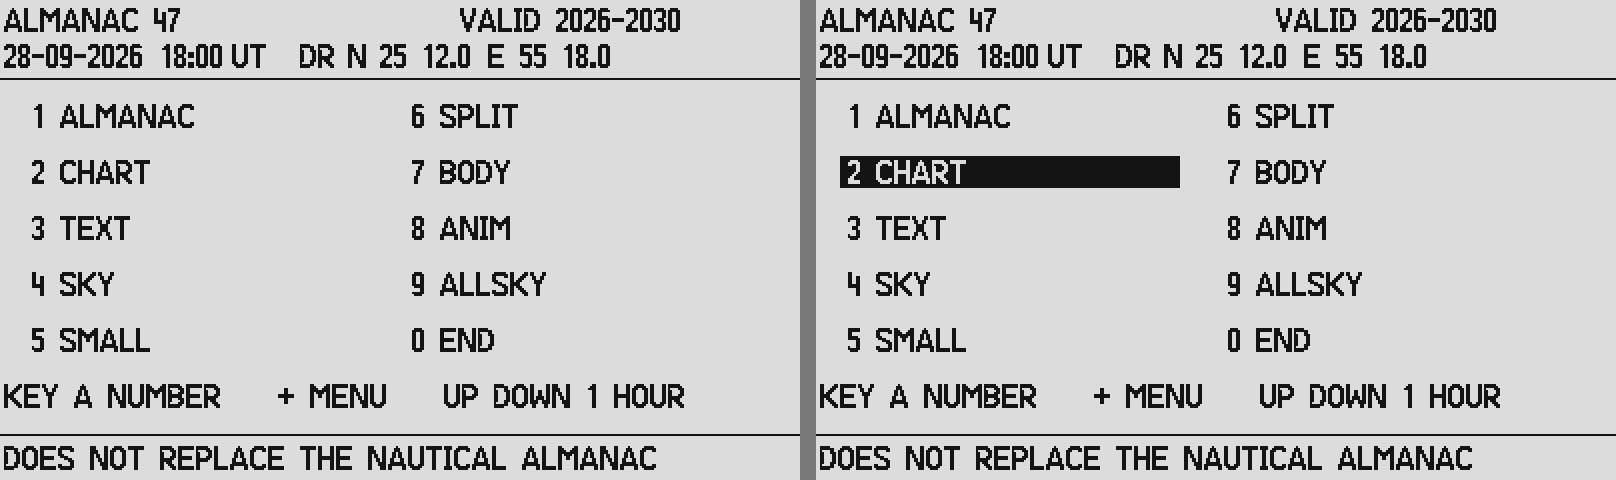
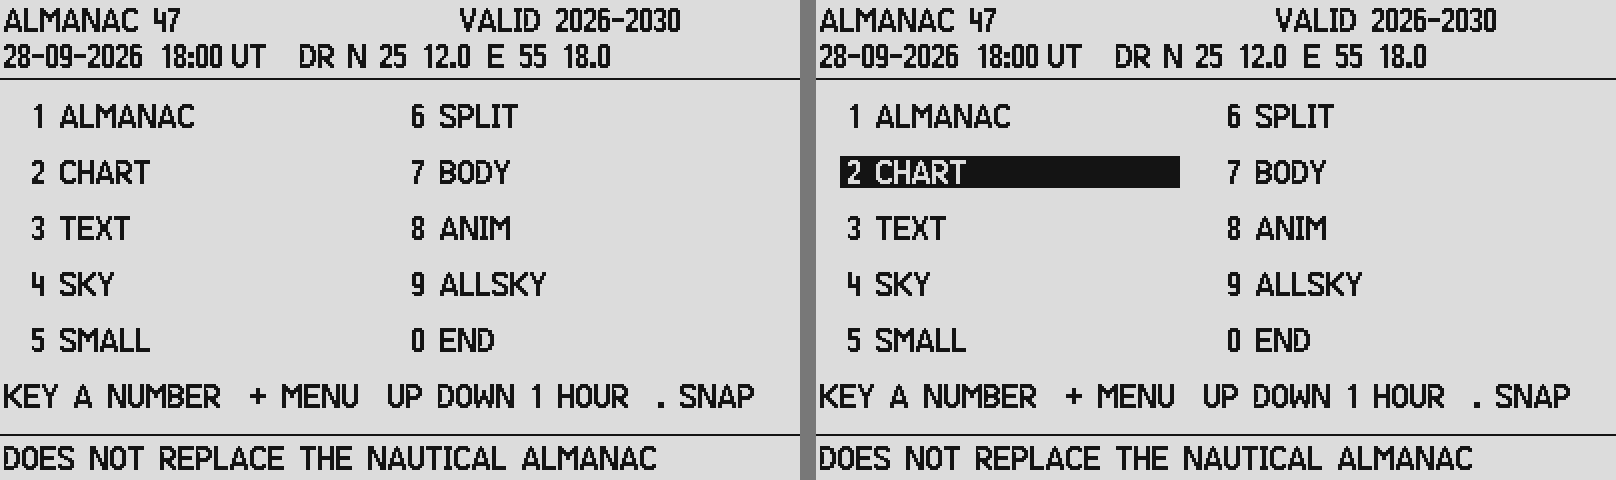
NAV: . key takes a screenshot (SNAP) of the menu or the view
Claude-Session: https://claude.ai/code/session_01677MyYEjVMcLMWfCdQA5yQ

Changed region(s): [[0.6498, 0.7812, 0.9901, 0.875], [0.1547, 0.7812, 0.4641, 0.875]]

diff --git a/tools/generators/gennav.py b/tools/generators/gennav.py
@@ -26,8 +26,9 @@ TOP, PITCH, XL, XR = 176, 28, 16, 206
 BOX_W, BOX_H = 170, 16
 TITLE = 'ALMANAC 47'
 UP, DOWN = 51, 61                      # arrow keycodes
+DOT = 83                               # . key: SNAP (screenshot of what is shown)
 ANTS = 6                               # ants shown after an arrow, 0.1 s apart
-HINT = 'KEY A NUMBER    + MENU    UP DOWN 1 HOUR'
+HINT = 'KEY A NUMBER  + MENU  UP DOWN 1 HOUR  . SNAP'
 WARNING = 'DOES NOT REPLACE THE NAUTICAL ALMANAC'
 
 
@@ -87,6 +88,7 @@ def program(inp, items=ALL, autoinit=False):
     a('LBL 02', 'KEY? 39', 'GTO 02',
       'RCL 39', 82, 'X=Y?', 'GTO 09',
       'RCL 39', UP, 'X=Y?', 'GTO 22', 'RCL 39', DOWN, 'X=Y?', 'GTO 23',        # arrows: the menu one hour later / earlier
+      'RCL 39', DOT, 'X=Y?', 'GTO 27',                                         # . : screenshot of the menu
       'RCL 39', 10, '÷', 'IP', 'STO 38', 5, 'X>Y?', 'GTO 26', 'RCL 38', 7, 'X<Y?', 'GTO 26',     # row 5-7
       'RCL 39', 10, 'MOD', 'STO 37', 2, 'X>Y?', 'GTO 26', 'RCL 37', 4, 'X<Y?', 'GTO 26',        # column 2-4
       7, 'RCL- 38', 3, '×', 'RCL+ 37', 1, '-', 'STO 38')                                   # the digit
@@ -97,7 +99,8 @@ def program(inp, items=ALL, autoinit=False):
     for d in items:
         a(d, 'RCL "VW"', 'X=Y?', 'GTO %d' % (9 + d))
     a('GTO 01', 'LBL 09', 'CLLCD', 'RTN',
-      'LBL 22', 1, 'STO+ "DH"', 'XEQ 48', 'GTO 01', 'LBL 23', 1, 'STO- "DH"', 'XEQ 48', 'GTO 01')
+      'LBL 22', 1, 'STO+ "DH"', 'XEQ 48', 'GTO 01', 'LBL 23', 1, 'STO- "DH"', 'XEQ 48', 'GTO 01',
+      'LBL 27', 'SNAP', 'XEQ 48', 'GTO 01')
     for d in items:
         if d == 3:                          # TEXT: the page into the registers, NAV ends in REGS
             a('LBL 12', *text_steps(24)); a('REGS', 'RTN')
@@ -111,6 +114,7 @@ def program(inp, items=ALL, autoinit=False):
     # after a view (it returns on any key, R39): + the menu, up arrow one hour later, down arrow one
     # hour earlier, any other key the same view again (its release would leave the stack on the screen)
     a('LBL 05', 'RCL 39', UP, 'X=Y?', 'GTO 06', 'RCL 39', DOWN, 'X=Y?', 'GTO 07',
+      'RCL 39', DOT, 'X=Y?', 'SNAP',                           # . : screenshot (taken before the key is released), then drawn again
       'RCL 39', 'X=0?', 'GTO 25', 85, 'X≠Y?', 'GTO 08', 'LBL 25', 'XEQ 48', 'GTO 01',
       'LBL 06', 1, 'STO+ "DH"', 'GTO 08', 'LBL 07', 1, 'STO- "DH"',
       # while the key is released (its release would bring the stack back over a new drawing):

diff --git a/tests/test_navfull.py b/tests/test_navfull.py
@@ -179,3 +179,9 @@ c.run('NAV',maxsteps=10**8)
 ref=Engine('programs'); b,_=ref.screen('ALMF',jd(2026,9,26,14+57/60),25+20/60,55+12/60)
 n=sum(1 for f in c.frames if {(x,239-y) for y,x in f if 0<=x<400 and 0<=y<240}==b[0])
 print('NAV other key on ALMF: drawn', n, 'times (2 expected)')
+# . key: SNAP on the menu and on a view, then drawn again
+c=load(['build/NAVINIT.txt','build/dev/NAVFULL.txt'],False)
+c.reg['DATE']=D('2026.0926'); c.reg['UTC']=D('14.57'); c.reg['LAT']=D('25.20'); c.reg['LON']=D('55.12')
+c.s=[D(0)]*4; c.keys=[83,KEYCODE[1],83,85,KEYCODE[0]]; c.frames=[]; c.pix=[]
+c.run('NAV',maxsteps=10**8)
+print('NAV . key: screenshots', getattr(c,'snaps',0), '(2 expected)')

diff --git a/python/c47sim.py b/python/c47sim.py
@@ -190,6 +190,7 @@ class Calc:
             if op == 'αSL': self.rset(arg, self.rget(arg)[int(self.s[0]):]); continue
             if op == 'REM': continue
             if op == 'WSIZE': self.ws=int(arg); continue
+            if op == 'SNAP': self.snaps=getattr(self,'snaps',0)+1; continue
             if op == 'REGS': self.regs_opened=True; continue
             if op == 'RAN#':
                 import random as _r; self.push(D(repr(_r.Random(getattr(self,'seed',0)).random()))); self.seed=getattr(self,'seed',0)+1; continue

diff --git a/DEVELOPMENT_NOTES.md b/DEVELOPMENT_NOTES.md
@@ -275,3 +275,6 @@ INIT with the builders as LBL 01-04.
   key is released; KT2 (PAUSE only, key pressed during the pause) - the band stays. So the redraw
   comes with a key caught by KEY? (on its release), not with every key. Hence NAV: after KEY?
   a pause (with the ants) for the release, then draw again.
+- g + EXIT (screenshot) does not work while NAV runs: KEY? takes the keys, EXIT stops the program.
+  Now the . key (83) runs SNAP (SCREENS/<date>.bmp) on the menu and on every drawn view, then
+  the screen is drawn again (the release after KEY?).
